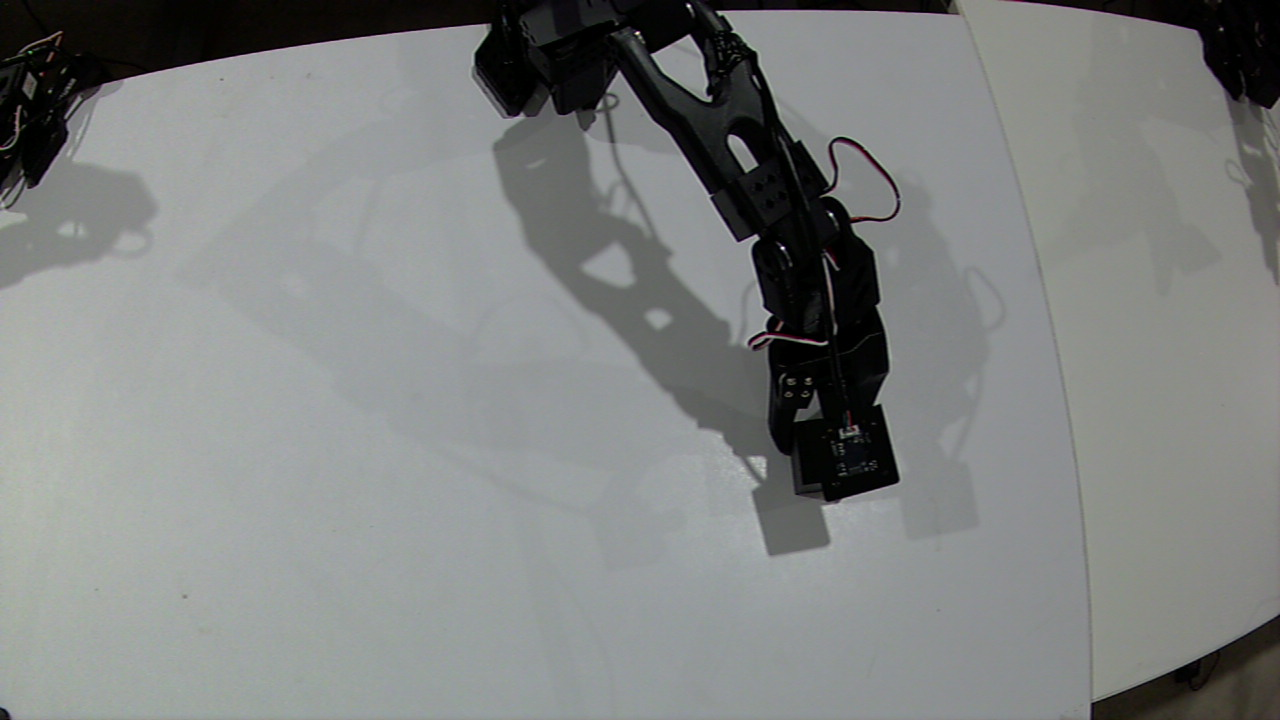
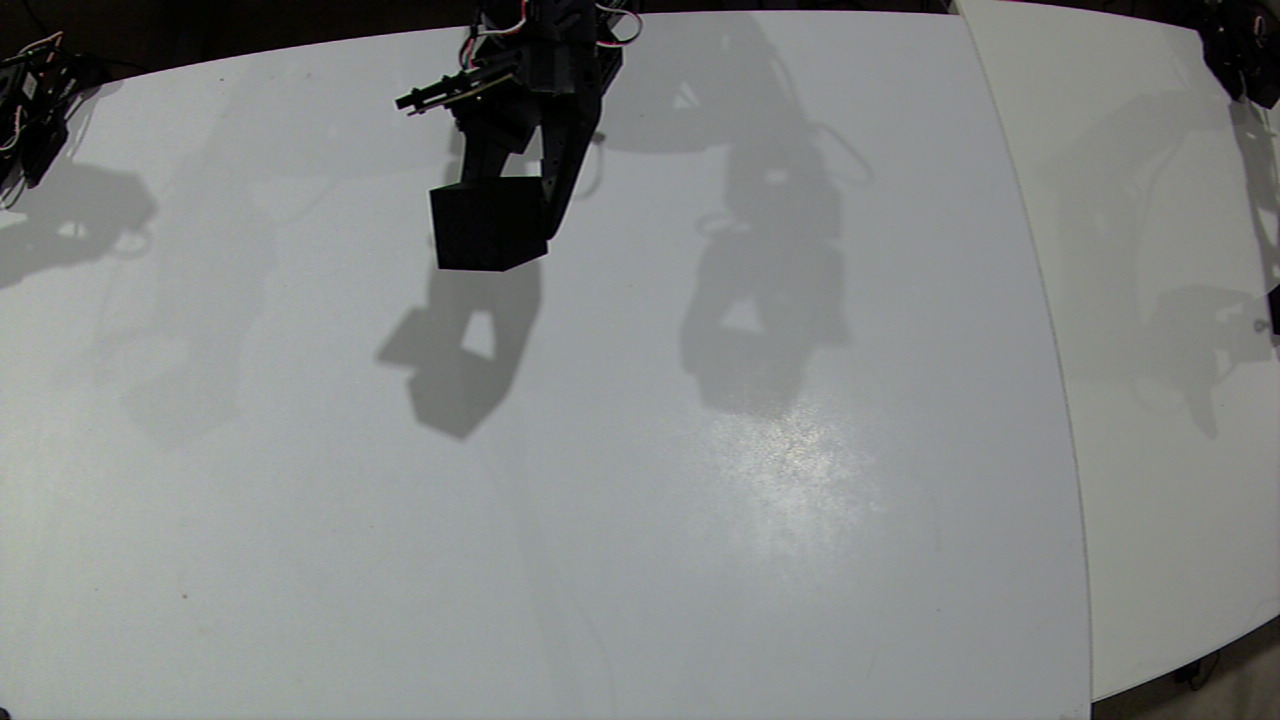
Update tools for arm-007__gpt-6-astra__grasp-cube
{"agent_id": "arm-007__gpt-6-astra__grasp-cube", "designation": "arm-007", "identity_version": 2, "model": "gpt-6-astra", "provider": "codex", "task_definition": {"description": "Start episode, pickup the black cube, bring black cube to home position, confirm successful grasp, stop episode, return object to new position, return home, repeat", "id": "grasp-cube", "success_criteria": ["successful episode coverage across the entire workspace", "achieve at least 50 successful episodes an hour"], "version": 2}, "task_id": "grasp-cube", "task_sha256": "e6c8adbb1562fdc6af3405e2e618046b110e27856c520c9f5cd329c258fb3818", "task_version": 2, "tools_sha256": "b9437a599fe29482cb1312874f4f8d8cb13513097b103cee4b4f5048477dbd64"}

diff --git a/agents/arm-007__gpt-6-astra__grasp-cube/cube_status.py b/agents/arm-007__gpt-6-astra__grasp-cube/cube_status.py
@@ -1,11 +1,17 @@
+"""Report recorded outcomes separately from subsequent visual review."""
 import json,time
 from pathlib import Path
+from datetime import datetime
+from zoneinfo import ZoneInfo
 rows=[json.loads(s) for s in Path('tools/cube_cycles.jsonl').read_text().splitlines()]
-e=[r for r in rows if r['event']=='episode'];good=[r for r in e if r['success']]
-extra=json.loads(Path('tools/supplemental_episodes.json').read_text())
-poses=set()
+e={r['receipt']['episode']:dict(success=r['success'],time=r['time'],receipt=r['receipt']) for r in rows if r['event']=='episode'}
+for r in json.loads(Path('tools/supplemental_episodes.json').read_text()):
+ t=datetime.strptime(r['episode'][:15],'%Y%m%dT%H%M%S').replace(tzinfo=ZoneInfo('America/Chicago')).timestamp()
+ e.setdefault(r['episode'],dict(success=r['success'],time=t,receipt={}))
+review={r['episode']:r['actual_task_success'] for r in rows if r['event']=='manual_review'}
+now=time.time();good=[r for r in e.values() if r['success']];poses=set()
 for r in good:
  try:p=json.loads(r['receipt']['notes'])['source_pose']
  except (ValueError,KeyError,TypeError):continue
- poses.add((round(p['shoulder_pan'],1),round(p['elbow_flex'],1)))
-print(json.dumps(dict(automated_successes=len(good),total_successes_including_manual=len(good)+sum(r['success'] for r in extra),failures=sum(not r['success'] for r in e)+sum(not r['success'] for r in extra),unique_automated_pickup_positions=len(poses),recent_successes_per_hour=(len(good[-10:])-1)*3600/(good[-1]['time']-good[-10:][0]['time']) if len(good)>1 else None,last_event=rows[-1],age_seconds=time.time()-rows[-1]['time']),indent=2))
+ poses.add(tuple(round(p[k],1) for k in ('shoulder_pan','shoulder_lift','elbow_flex','wrist_flex')))
+print(json.dumps(dict(recorded_successes=len(good),recorded_failures=len(e)-len(good),reviewed_task_successes=sum(review.get(k,r['success']) for k,r in e.items()),recorded_successes_last_hour=sum(r['time']>=now-3600 for r in good),distinct_successful_source_poses=len(poses),last_event=rows[-1],seconds_since_last_event=now-rows[-1]['time']),indent=2))

diff --git a/agents/arm-007__gpt-6-astra__grasp-cube/cube_cycles.py b/agents/arm-007__gpt-6-astra__grasp-cube/cube_cycles.py
@@ -33,7 +33,7 @@ def home(b):move(b,HOME,4)
 def grip(b):
  limit,_=c.read_register(b,'Torque_Limit','gripper')
  if limit!=220:raise RuntimeError('Expected bounded gripper output 220, got '+str(limit))
- c.move(b,{'gripper':0},1.2)
+ c.move(b,{'gripper':0},1.8)
  time.sleep(.5)
  actual=b.read('Present_Position','gripper')
  if c.fault_bits(b,'gripper'):raise RuntimeError('Gripper fault')
@@ -59,8 +59,10 @@ def run(n):
    move(b,above(current));home(b)
    for i in range(n):
     ep=recording.start_recording('Pick black cube, bring to home, visually confirm retained grasp');active=True
-    move(b,above(current));move(b,current,1.5)
-    pickup=current
+    pickup=dict(current)
+    depth=float(os.environ.get('CUBE_PICK_DEPTH','0'))
+    pickup['shoulder_lift']+=depth;pickup['wrist_flex']-=depth
+    move(b,above(pickup));move(b,pickup,2)
     try:contact=grip(b)
     except RuntimeError:
      p=b.read('Present_Position','gripper')
@@ -80,7 +82,7 @@ def run(n):
     if not ok:raise RuntimeError('Grasp not verified at home')
     target=pose(*grid[i%len(grid)])
     move(b,above(target));move(b,target,1.5)
-    move(b,{'gripper':50},1.3)
+    move(b,{'gripper':65},1.5)
     current=target;STATE.write_text(json.dumps(current))
     move(b,above(current),3);home(b)
     snapshot();emit(event='placed',pose=current)
